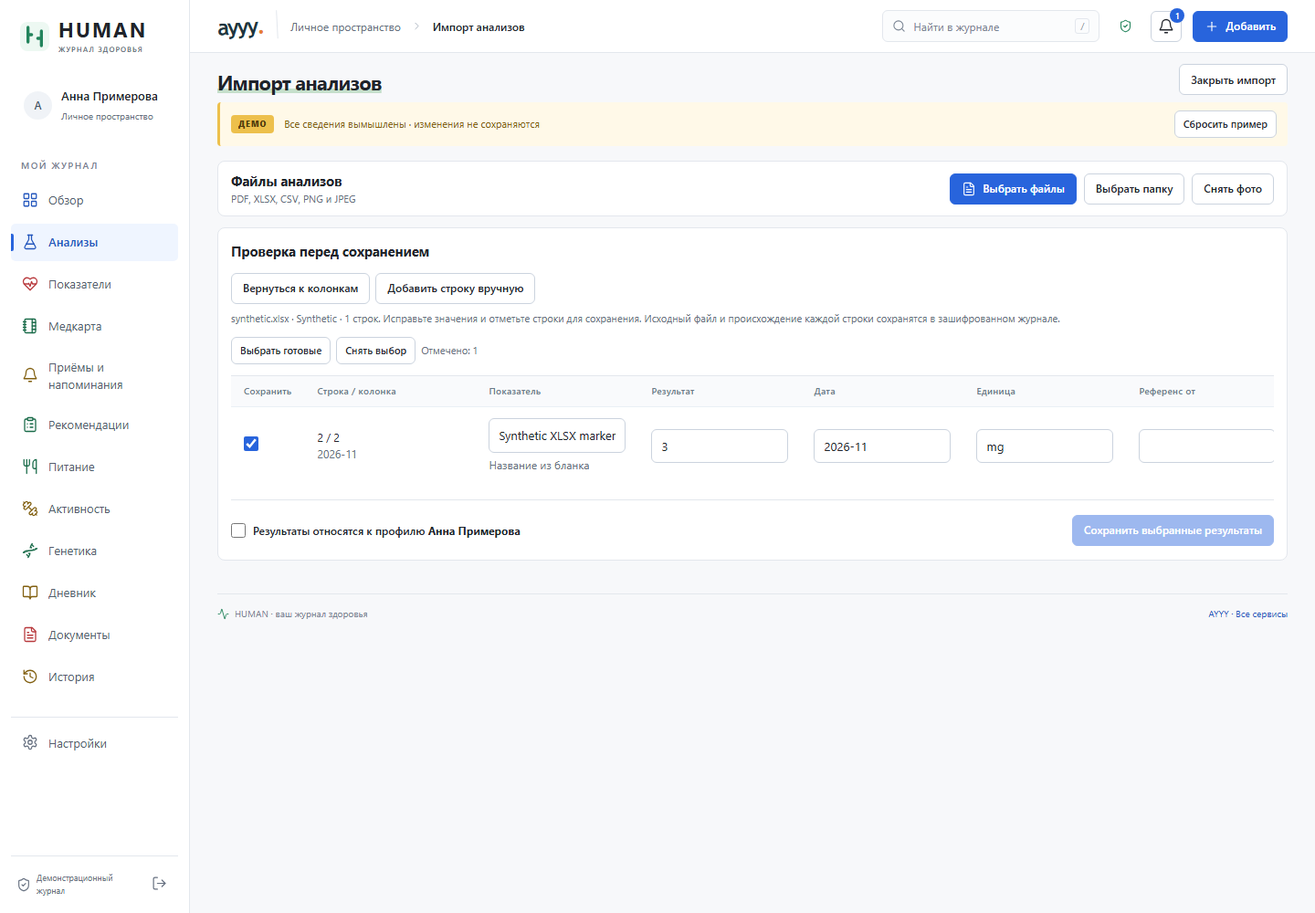
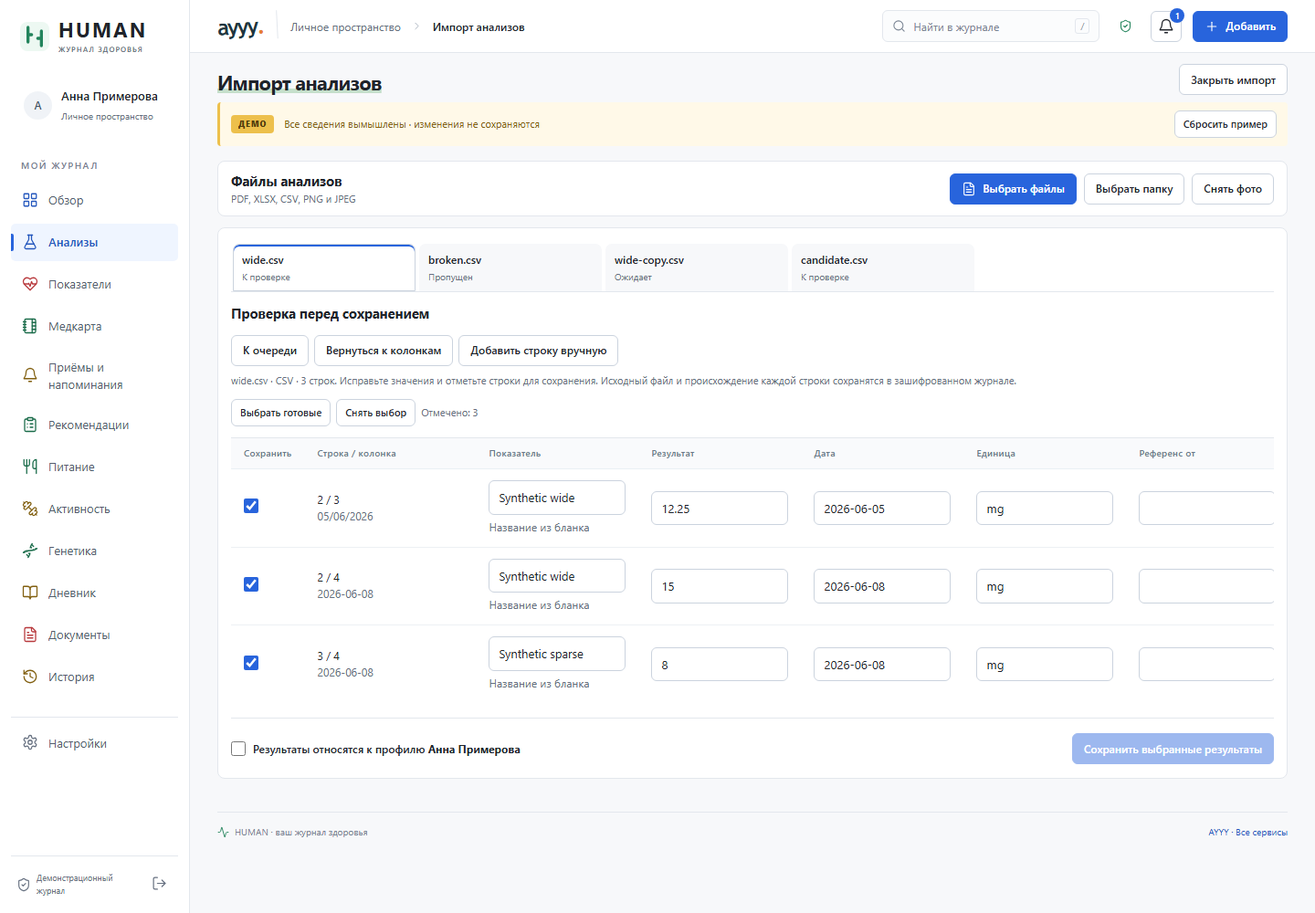
feat(health): switch directly between lab import files

diff --git a/health/import.js b/health/import.js
@@ -14,7 +14,10 @@
   let single=entries.length===1,currentEntry=null,loading=false,busy=false;
   let checkpoint=saved?.checkpoint??null,persisting=false,draftNotice=saved?'Черновик открыт с этого устройства.':'';
   const active=()=>!signal.aborted&&isCurrent()&&getDoc()?.id===identity;
-  signal.addEventListener('abort',()=>{entries.length=0;body.replaceChildren();},{once:true});
+  const tablist=V.h('div',{class:'health-import-file-tabs',role:'tablist','aria-label':'Файлы импорта',hidden:single});
+  const panel=V.h('div',{id:'health-import-file-panel'}),tabs=new Map();
+  body.replaceChildren(tablist,panel);
+  signal.addEventListener('abort',()=>{entries.length=0;tabs.clear();body.replaceChildren();},{once:true});
   function validateSize(batch){
    if(batch.length>100||batch.reduce((size,entry)=>size+(entry.original?.bytes.byteLength??entry.file?.size??0),0)>128*1024*1024)
     throw Error('Выберите до 100 файлов общим размером до 128 МиБ.');
@@ -22,15 +25,70 @@
   function frame(title){
    const heading=V.h('h2',{tabindex:-1},title);
    const content=V.h('div',{class:'health-import-panel'},V.h('p',{class:'health-note','data-import-skipped':true,hidden:true}));
-   body.replaceChildren(heading,content);
+   panel.replaceChildren(heading,content);
    updateSkipped();
-   if(body.isConnected)heading.focus({preventScroll:true});
+   syncTabs();focusPanel();
    return content;
   }
   function updateSkipped(){
-   const note=body.querySelector('[data-import-skipped]');
+   const note=panel.querySelector('[data-import-skipped]');
    note.hidden=!skippedFiles;
    note.textContent=skippedFiles?`Пропущено файлов неподдерживаемых форматов: ${skippedFiles}`:'';
+  }
+  function focusPanel(){if(panel.isConnected&&!tablist.contains(document.activeElement))panel.querySelector('h2')?.focus({preventScroll:true});}
+  function savedCounts(entry){return [entry.savedCount?`Сохранено результатов: ${entry.savedCount}`:'',entry.linked?`Связано источников: ${entry.linked}`:''].filter(Boolean).join(' · ');}
+  function fileStatus(entry){
+   if(entry.skipped)return ['skipped','Пропущен'];
+   if(entry.done!=null)return ['done','Сохранён'];
+   if(loading&&currentEntry===entry)return ['review','Чтение файла'];
+   if(entry.error)return ['error','Ошибка чтения'];
+   return entry.original?['review','К проверке']:['waiting','Ожидает'];
+  }
+  function syncTabs(){
+   tablist.hidden=single;
+   if(single)return;
+   const focused=tablist.contains(document.activeElement)?document.activeElement:null;
+   for(const entry of entries){
+    const name=entry.relativePath||entry.name;
+    if(!tabs.has(entry)){
+     const status=V.h('span',{id:'health-import-status-'+entry.id});
+     const button=V.h('button',{type:'button',role:'tab',id:'health-import-tab-'+entry.id,'aria-controls':panel.id,
+      'aria-label':name,'aria-describedby':status.id,title:name},V.h('strong',{},name),status);
+     button.addEventListener('click',()=>{button.focus({preventScroll:true});void switchFile(entry);});
+     tabs.set(entry,{button,status});tablist.append(button);
+    }
+    const {button,status}=tabs.get(entry),[tone,label]=fileStatus(entry);
+    button.dataset.status=tone;
+    button.setAttribute('aria-selected',String(entry===currentEntry));
+    button.tabIndex=(focused?button===focused:entry===(currentEntry??entries[0]))?0:-1;
+    status.textContent=label;
+   }
+   if(currentEntry){
+    panel.setAttribute('role','tabpanel');panel.setAttribute('aria-labelledby',tabs.get(currentEntry).button.id);
+   }else{panel.removeAttribute('role');panel.removeAttribute('aria-labelledby');}
+  }
+  tablist.addEventListener('keydown',event=>{
+   if(!['ArrowLeft','ArrowRight','Home','End'].includes(event.key))return;
+   const buttons=[...tablist.children],index=buttons.indexOf(event.target);
+   if(index<0)return;
+   event.preventDefault();
+   const next=event.key==='Home'?0:event.key==='End'?buttons.length-1:(index+buttons.length+(event.key==='ArrowRight'?1:-1))%buttons.length;
+   buttons[next].focus({preventScroll:true});buttons[next].scrollIntoView({block:'nearest',inline:'nearest'});syncTabs();
+  });
+  tablist.addEventListener('focusout',event=>{if(!tablist.contains(event.relatedTarget))queueMicrotask(()=>{if(active())syncTabs();});});
+  function queueLink(){return action('К очереди','import-queue',()=>void switchFile(null),{hidden:single});}
+  function parkEditor(){if(currentEntry?.capture)currentEntry.view=[...panel.childNodes];}
+  async function switchFile(entry){
+   if(!active()||entry===currentEntry)return;
+   if(loading||busy||persisting){notify?.('Дождитесь окончания обработки текущего файла.');return;}
+   const leaving=currentEntry;
+   parkEditor();
+   if(checkpoint&&leaving?.capture){
+    persisting=true;panel.inert=true;
+    try{await updateCheckpoint(leaving,draftMetadata(leaving));}finally{persisting=false;panel.inert=false;}
+    if(!active())return;
+   }
+   if(entry)await load(entry);else queue();
   }
   function action(label,key,run,attrs={}){
    const button=V.button(label,key,attrs);
@@ -74,7 +132,7 @@
     finally{for(const control of controls)control.disabled=false;persisting=false;save.disabled=discard.disabled=false;discard.hidden=!checkpoint;status.textContent=draftNotice;}
    },{class:'small',hidden:!pending().length});
    const discard=action('Удалить сохранённый черновик','discard-import-draft',async()=>{
-    if(!canSave()||!checkpoint||!confirm('Удалить сохранённый черновик с этого устройства? Правки в открытом окне останутся до его закрытия.'))return;
+    if(!canSave()||!checkpoint||!confirm('Удалить сохранённый черновик с этого устройства? Правки останутся доступны до закрытия импорта.'))return;
     persisting=true;save.disabled=discard.disabled=true;
     try{await persistence.discard(checkpoint,active);checkpoint=null;draftNotice='Сохранённый черновик удалён.';}
     catch(error){draftNotice=error.message;}
@@ -86,11 +144,11 @@
    currentEntry=null;
    const content=frame('Очередь импорта');
    draftActions(content);
-   content.append(V.h('p',{class:'health-note'},persistence?'Проверяйте и сохраняйте результаты по каждому файлу. После закрытия окна доступна сохранённая версия черновика.':'Проверяйте и сохраняйте результаты по каждому файлу. В демо правки черновика доступны в открытом окне.'),
+   content.append(V.h('p',{class:'health-note'},persistence?'После закрытия импорта можно открыть сохранённый черновик.':'В демо правки доступны, пока открыт импорт.'),
     V.h('ul',{class:'health-import-queue'},entries.map(entry=>{
-     const status=entry.done!=null?[entry.done?`Сохранено результатов: ${entry.done}`:'',entry.linked?`Связано источников: ${entry.linked}`:''].filter(Boolean).join(' · '):entry.skipped?'Пропущен':entry.error||(entry.original?'Готов к проверке':'Ожидает');
+     const status=entry.done!=null?savedCounts(entry):entry.skipped?'Пропущен':entry.error||fileStatus(entry)[1];
      return V.h('li',{},V.h('div',{},V.h('strong',{},entry.relativePath||entry.name),V.h('small',{},status)),entry.done!=null||entry.skipped?null:
-      V.h('div',{class:'health-import-queue-actions'},action(entry.original?'Продолжить':entry.error?'Повторить':'Открыть','import-open-file',()=>void load(entry),{class:'small'}),
+      V.h('div',{class:'health-import-queue-actions'},action(entry.original?'Продолжить':entry.error?'Повторить':'Открыть','import-open-file',()=>void switchFile(entry),{class:'small'}),
        action('Пропустить','import-skip-file',async()=>{
         persisting=true;
         try{await updateCheckpoint(entry);}finally{persisting=false;}
@@ -100,20 +158,40 @@
        },{class:'small'})));
     })));
   }
+  function readError(entry,error){
+   entry.error=error.message;
+   const content=frame('Не удалось открыть файл');
+   content.append(V.h('p',{class:'health-import-file'},entry.relativePath||entry.name),V.h('p',{class:'error',role:'alert'},entry.error),
+    action('Повторить чтение','import-retry-file',()=>void load(entry)),queueLink());
+  }
   async function load(entry){
    currentEntry=entry;
-   if(entry.view){body.replaceChildren(...entry.view);entry.view=null;updateSkipped();entry.refreshReview?.();body.querySelector('h2')?.focus({preventScroll:true});return;}
+   if(entry.done!=null||entry.skipped){
+    const content=frame(entry.skipped?'Файл пропущен':'Файл обработан');
+    const counts=savedCounts(entry);
+    content.append(V.h('p',{class:'health-import-file'},entry.relativePath||entry.name));
+    if(counts)content.append(V.h('p',{class:'health-note'},counts));
+    content.append(queueLink());
+    return;
+   }
+   if(entry.view){
+    panel.replaceChildren(...entry.view);entry.view=null;updateSkipped();entry.refreshReview?.();
+    const draftStatus=panel.querySelector('[data-import-draft-status]'),discard=panel.querySelector('[data-action=discard-import-draft]');
+    if(draftStatus)draftStatus.textContent=draftNotice;
+    if(discard)discard.hidden=!checkpoint;
+    syncTabs();focusPanel();return;
+   }
    if(entry.original){
     try{edit(entry,entry.original);}catch(error){
      if(single){close();throw error;}
-     entry.error=error.message;queue();
+     readError(entry,error);
     }
     return;
    }
+   loading=true;entry.error=null;
    const content=frame('Чтение файла'),status=V.h('p',{class:'health-note',role:'status'},'Чтение '+(entry.relativePath||entry.name));
    content.append(status);
    const reader=new AbortController(),abort=()=>reader.abort();
-   loading=true;
    signal.addEventListener('abort',abort,{once:true});
    if(!single)content.append(action('Отменить чтение','import-cancel-read',abort));
    try{
@@ -127,9 +205,8 @@
    }catch(error){
     if(!active())return;
     if(single){close();throw error;}
-    entry.error=reader.signal.aborted?null:error.message;
-    queue();
-   }finally{loading=false;signal.removeEventListener('abort',abort);}
+    if(reader.signal.aborted)queue();else readError(entry,error);
+   }finally{loading=false;signal.removeEventListener('abort',abort);if(active())syncTabs();}
   }
   function edit(entry,original){
   const restored=entry.editor??{};
@@ -181,12 +258,6 @@
    });
    return details;
   }
-  function navigation(content){
-   content.append(action('К очереди','import-queue',()=>{
-    if(busy)return;
-    entry.view=[...body.childNodes];queue();
-   },{hidden:single}));
-  }
   function readOptions(form){
    const input=new FormData(form);
    order=String(input.get('dateOrder')||'');
@@ -199,7 +270,7 @@
    manualMode=false;manualIds=[];
    const table=original.tables[sheet];
    const content=frame('Сопоставление колонок'),labels=table.rows[header-1]||[],width=Math.max(0,...table.rows.map(r=>r.length));
-   navigation(content);
+   content.append(queueLink());
    draftActions(content,()=>!busy);
    mapping??=Object.fromEntries(fields.map(([key])=>[key,labels.findIndex(x=>(aliases[key]||[]).includes(x.trim().toLocaleLowerCase('ru-RU')))]));
    layout??=T.suggestedLayout(labels,mapping);
@@ -253,7 +324,7 @@
    const doc=getDoc(),documentId=sourceDocument(doc)?.id;
    const content=frame('Проверка перед сохранением'),error=V.h('p',{class:'error',role:'alert',hidden:true});
    const result=V.h('p',{class:'health-note','data-import-result':true,role:'status',hidden:true});
-   navigation(content);
+   content.append(queueLink());
    draftActions(content,()=>!busy);
    const table=original.tables[sheet];
    let indexOfResults=T.duplicateIndex(doc.observations),coordinates=T.importedCoordinates(doc);
@@ -467,10 +538,8 @@
    if(loading||persisting||busy)throw Error('Дождитесь окончания обработки текущего файла.');
    const added=newEntries(list,sourceDocumentId);
    validateSize([...entries,...added]);
-   if(currentEntry){
-    body.querySelector('[data-action=import-queue]')?.removeAttribute('hidden');
-    currentEntry.view=[...body.childNodes];
-   }
+   panel.querySelector('[data-action=import-queue]')?.removeAttribute('hidden');
+   parkEditor();
    entries.push(...added);
    skippedFiles+=skipped;
    single=false;

diff --git a/health/human-adapter.css b/health/human-adapter.css
@@ -32,9 +32,18 @@
 .health-pdf-pages canvas{display:block;max-width:100%;height:auto;margin:12px auto;border:1px solid var(--border)}
 .health-import-tools{display:flex;justify-content:space-between;align-items:center;flex-wrap:wrap;gap:8px 16px;margin:0 0 12px;padding:10px 14px}
 .health-import-tools h2,.health-import-tools p{margin:0}
-.health-import-tools h2,.health-import-workspace>h2{font-size:15px}
+.health-import-tools h2,#health-import-file-panel>h2{font-size:15px}
 .health-import-workspace{padding:14px;min-width:0}
-.health-import-workspace>h2{margin:0 0 12px}
+#health-import-file-panel>h2{margin:0 0 12px}
+.health-import-file-tabs{display:flex;gap:4px;overflow-x:auto;margin:0 0 12px;padding:3px 2px 0;border-bottom:1px solid var(--border);scrollbar-width:thin}
+.health-import-file-tabs [role=tab]{display:grid;gap:3px;min-width:0;flex:1 0 130px;max-width:200px;padding:7px 9px;text-align:left;border:1px solid transparent;border-radius:7px 7px 0 0;background:var(--bg);color:var(--text)}
+.health-import-file-tabs [role=tab][aria-selected=true]{border-color:var(--border-strong);box-shadow:inset 0 2px var(--blue);background:var(--surface)}
+.health-import-file-tabs [role=tab]:focus-visible{outline-offset:-2px}
+.health-import-file-tabs strong,.health-import-file-tabs span{overflow:hidden;text-overflow:ellipsis;white-space:nowrap}
+.health-import-file-tabs strong{font-size:12px;font-weight:600}
+.health-import-file-tabs span{font-size:10px;color:var(--muted)}
+.health-import-file-tabs [data-status=done] span{color:var(--green-ink)}
+.health-import-file-tabs [data-status=error] span{color:var(--red-ink)}
 .health-import-workspace .health-form,.health-import-workspace .health-form>*{min-width:0}
 .health-import-workspace .health-table-wrap{width:100%;max-width:100%;max-height:50vh;overflow:auto}
 .health-import-workspace .health-form-row{grid-template-columns:repeat(2,minmax(0,1fr))}

diff --git a/health/index.html b/health/index.html
@@ -16,7 +16,7 @@
   <link rel="stylesheet" href="./human-care.css?v=ea139e5f6a30">
   <link rel="stylesheet" href="./human-diary.css?v=dae91ec77b80">
   <link rel="stylesheet" href="./human-recommendations.css?v=691d421d05aa">
-  <link rel="stylesheet" href="./human-adapter.css?v=0cdb1f2f89b9">
+  <link rel="stylesheet" href="./human-adapter.css?v=5b7711615998">
   <script src="../assets/portal-visits.js" defer></script>
 </head>
 <body>
@@ -60,7 +60,7 @@
   <script src="./documents.js?v=1e3cb3b5275d" defer></script>
   <script src="./import-table.js?v=e50f4b4ad3d7" defer></script>
   <script src="./import-draft.js?v=a2ccc2cabb2b" defer></script>
-  <script src="./import.js?v=3fac1228cfd2" defer></script>
+  <script src="./import.js?v=d6aad97aa4eb" defer></script>
   <script src="./app.js?v=c814c11600b6" defer></script>
 </body>
 </html>

diff --git a/src/health-route.js b/src/health-route.js
@@ -19,7 +19,7 @@
   }
   app.register('health',{
     title:'Здоровье',
-    render(){const href=source+'?v=human-9f7eb2cabdee'+(app.param==='demo'?'&demo=1':'');return '<iframe class="ayyy-health-frame" id="ayyy-health-frame" title="HUMAN · личный журнал здоровья" src="'+app.escape(href)+'" loading="eager"></iframe>';},
+    render(){const href=source+'?v=human-874905e6a0a3'+(app.param==='demo'?'&demo=1':'');return '<iframe class="ayyy-health-frame" id="ayyy-health-frame" title="HUMAN · личный журнал здоровья" src="'+app.escape(href)+'" loading="eager"></iframe>';},
     mount(){const frame=document.getElementById('ayyy-health-frame');return ()=>{if(frame)frame.src='about:blank';};}
   });
 })();

diff --git a/index.html b/index.html
@@ -69,7 +69,7 @@
   <script src="src/weather-route.js?v=8ad9e13c3eeb" defer></script>
   <script src="src/games-route.js?v=4cbc8df21424" defer></script>
   <script src="src/family-route.js?v=35310fa1165a" defer></script>
-  <script src="src/health-route.js?v=528757ef8ebc" defer></script>
+  <script src="src/health-route.js?v=5029c6fa62d8" defer></script>
   <script src="src/mpp-route.js?v=c21b85a811cf" defer></script>
   <script src="tools/loan-model.js?v=6a32f8e861b0" defer></script>
   <script src="tools/science-model.js?v=3bb101b6cefd" defer></script>

diff --git a/tests/health_documents_browser.py b/tests/health_documents_browser.py
@@ -75,7 +75,7 @@ with sync_playwright() as pw:
  upload('synthetic.xlsx',payload,'application/vnd.openxmlformats-officedocument.spreadsheetml.sheet',p.locator('#health-dialog [data-action=csv]'))
  check('manual form opens the full import page and releases the dialog',workspace.is_visible() and not p.locator('#health-dialog').is_visible())
  check('XLSX cached formula read without execution','Synthetic XLSX marker' in p.locator('[data-form=document-mapping]').inner_text())
- draft();check('review uses wide workspace',workspace.bounding_box()['width']>=1100);check('table scroll stays inside the page',workspace.evaluate('(e)=>e.scrollWidth<=e.clientWidth'));(ROOT/'docs/health-ui').mkdir(parents=True,exist_ok=True);capture(p,path=str(ROOT/'docs/health-ui/import-review-1440.png'),full_page=True)
+ draft();check('review uses wide workspace',workspace.bounding_box()['width']>=1100);check('table scroll stays inside the page',workspace.evaluate('(e)=>e.scrollWidth<=e.clientWidth'))
  first_review=p.locator('[data-form=document-review]')
  check('confirmation names the open profile and starts unchecked',first_review.get_by_label('Результаты относятся к профилю Анна Примерова').is_visible() and first_review.locator('[type=submit]').is_disabled())
  first_review.dispatch_event('submit')
@@ -183,21 +183,42 @@ with sync_playwright() as pw:
  chooser.value.set_files([
   {'name':'broken.csv','mimeType':'text/csv','buffer':b'name;value\n"unfinished'},
   {'name':'wide-copy.csv','mimeType':'text/csv','buffer':wide},
+  {'name':'candidate.csv','mimeType':'text/csv','buffer':matching+b'\n\n'},
  ])
  queue.wait_for()
- check('files can be added while a draft is open',queue.locator('li').count()==3)
+ check('files can be added while a draft is open',queue.locator('li').count()==4)
  p.set_viewport_size({'width':360,'height':900})
  check('batch queue fits phone',workspace.evaluate('(e)=>e.scrollWidth<=e.clientWidth'))
+ check('file tabs scroll inside the mobile workspace',workspace.get_by_role('tablist').evaluate('(e)=>e.scrollWidth>e.clientWidth'))
  p.set_viewport_size({'width':1440,'height':1000})
- open_entry('broken.csv');queue.wait_for()
+ def file_tab(name):return workspace.get_by_role('tab',name=name,exact=True)
+ open_entry('wide.csv')
+ file_tab('wide.csv').focus();file_tab('wide.csv').press('ArrowRight')
+ check('arrow keys focus the next file without changing the active draft',
+       file_tab('wide.csv').get_attribute('aria-selected')=='true' and file_tab('broken.csv').evaluate('(tab)=>tab===document.activeElement'))
+ file_tab('broken.csv').press('Enter')
+ workspace.get_by_role('alert').filter(has_text='Незакрытая кавычка CSV').wait_for()
+ check('an unreadable file shows its own error while other file tabs stay available',
+       file_tab('broken.csv').get_attribute('data-status')=='error' and file_tab('wide.csv').is_visible())
+ p.locator('[data-action=import-queue]').click();queue.wait_for()
  check('invalid file is isolated in the queue','Незакрытая кавычка CSV' in queue_entry('broken.csv').inner_text())
  queue_entry('broken.csv').locator('[data-action=import-skip-file]').click()
- open_entry('wide.csv')
+ file_tab('candidate.csv').click();draft()
+ review.locator('[name=selected]').check();review.locator('[name="0:decision"]').select_option('separate')
+ review.locator('[name=profileConfirmed]').check()
+ file_tab('wide.csv').click()
  check('batch retains unsaved edits',p.locator('[name="0:value"]').input_value()=='12.25')
- p.locator('[data-action=import-queue]').click();queue.wait_for();open_entry('wide.csv')
+ capture(p,path=str(ROOT/'docs/health-ui/import-review-1440.png'),full_page=True)
+ file_tab('candidate.csv').click()
+ check('direct switching retains selection, duplicate decision and profile confirmation',
+       review.locator('[name=selected]').is_checked() and review.locator('[name="0:decision"]').input_value()=='separate' and
+       review.locator('[name=profileConfirmed]').is_checked())
+ file_tab('wide.csv').click()
  submit_review();queue.wait_for()
  check('batch marks confirmed results per file','Сохранено результатов: 3' in queue_entry('wide.csv').inner_text())
- open_entry('wide-copy.csv');mapping.locator('[name=dateOrder]').select_option('dmy');draft()
+ file_tab('wide.csv').click()
+ check('a completed file tab shows a read-only result summary',workspace.get_by_role('tabpanel',name='wide.csv').get_by_text('Сохранено результатов: 3',exact=True).is_visible())
+ file_tab('wide-copy.csv').click();mapping.locator('[name=dateOrder]').select_option('dmy');draft()
  check('wide results are deduplicated by source cell',p.locator('[name=selected]:disabled').count()==3)
  close_import()
  encoded=p.evaluate('''()=>{

diff --git a/tests/health_import_draft_browser.py b/tests/health_import_draft_browser.py
@@ -116,10 +116,13 @@ def run(browser, directory):
         noNames:!Object.keys(draft).includes('entries')&&!Object.keys(draft.files[0]).includes('name'),salt:draft.salt};
     }''',OLD)
     assert proof['encrypted'] and proof['rejected'] and proof['noNames'] and proof['files']==2 and proof['count']==proof['attachments']==0,proof
+    review(p).locator('[name="0:value"]').fill('15.50')
+    p.get_by_role('tab',name=next_path,exact=True).click()
+    p.locator('[data-form=document-mapping]').wait_for()
     p.reload();unlock(p,OLD);lab(p);resume(p)
-    entry(p,first_path).locator('[data-action=import-open-file]').click()
-    assert review(p).locator('[name="0:value"]').input_value()=='15.25' and not review(p).locator('[name=selected]').is_checked()
-    print('PASS folder paths distinguish same-name files and survive encrypted draft reload',flush=True)
+    p.get_by_role('tab',name=first_path,exact=True).click()
+    assert review(p).locator('[name="0:value"]').input_value()=='15.50' and not review(p).locator('[name=selected]').is_checked()
+    print('PASS switching updates the encrypted checkpoint and retains relative paths and edits after reload',flush=True)
 
     peer=page();peer.goto(BASE+'health/');unlock(peer,OLD);lab(peer);resume(peer)
     entry(peer,first_path).locator('[data-action=import-open-file]').click()

diff --git a/docs/HEALTH_HUMAN_UI.md b/docs/HEALTH_HUMAN_UI.md
@@ -16,6 +16,8 @@
 
 Импорт открывается отдельной страницей внутри журнала. Начать можно из «Анализов», из формы нового анализа или из сохранённого документа. Выбор файлов, папки и камеры доступен и при открытом черновике. Новые файлы добавляются в ту же очередь. Если перейти в другой раздел, «Продолжить импорт» возвращает открытый черновик с правками до блокировки журнала. Чтобы продолжить после блокировки или перезагрузки, сохраните черновик на устройстве.
 
+Вкладки над формой переключают бланки и показывают статус каждого файла. Стрелки, Home и End перемещают фокус, Enter или пробел открывают файл. При переключении правки и решения по совпадениям сохраняются в текущем сеансе. Если этот файл уже был сохранён в зашифрованном черновике, при переключении его правки также записываются на устройство.
+
 «Выбрать готовые» отмечает валидные строки таблицы без известных совпадений в журнале. Ручные и распознанные строки отмечаются по одной после сверки с бланком. Подтверждение записывает готовые результаты. Строки с ошибками или неразрешёнными совпадениями остаются доступными для правки. После частичного подтверждения видно число сохранённых и оставшихся строк.
 
 «Импорт папки» добавляет поддерживаемые файлы из выбранной папки и её подпапок. В очереди видны относительные пути, чтобы различать одноимённые бланки. Путь сохраняется только в зашифрованном черновике. Перед записью результатов подтвердите их принадлежность открытому профилю для каждого файла. При повторном открытии сохранённого черновика подтвердите принадлежность заново.
@@ -84,7 +86,7 @@ python -X utf8 src/build.py dist/index.html
 
 Opt-in живого теста (только с разрешением владельца): `$env:HEALTH_GITHUB_TEST_REPO='i12309/TEST_TREE'; python -X utf8 tests/health_github_live.py`.
 
-Используются отдельные браузерные контексты и только синтетические данные. Локальные тесты блокируют внешние запросы; живой тест разрешает только API GitHub. Проверки охватывают точность, DST, неизвестные числа, сохранение/перезагрузку, профили, конкурентную запись, XSS в заметках, клавиатуру и ширины 360–1920 px. Базовая матрица Chromium/Firefox/WebKit — 270 проверок 14 экранов на 360/768/1440 px: навигация, подписи полей, клавиатура, отсутствие переполнений/ошибок/сети. Профиль/история/копии/смена фразы — по 49 сценариев в каждом движке. Рекомендации — по 42 сценария в каждом из трёх движков. Для всех сценарных наборов движок выбирает `$env:HEALTH_BROWSER='firefox'` или `'webkit'`, по умолчанию Chromium. Наполненные формы и графики проверены отдельными сценариями в каждом движке. runner запускает 13 наборов: общий интерфейс (116), каталог и импорт анализов, медкарта (35), эпизоды (27), измерения (49), приёмы/напоминания (36), питание/активность (45), генетика (42), документы (77), зашифрованные черновики импорта, хранилище (26), профиль/копии (49), рекомендации (42). `--engine firefox` / `--engine webkit` выбирает движок; повторяемый `--suite` ограничивает запуск нужными наборами. Синтетические снимки сохраняются только Chromium, чтобы параллельные прогоны не перезаписывали друг друга. Проверки удаления дожидаются подтверждённого изменения UI, а не предполагают синхронную запись IndexedDB.
+Используются отдельные браузерные контексты и только синтетические данные. Локальные тесты блокируют внешние запросы; живой тест разрешает только API GitHub. Проверки охватывают точность, DST, неизвестные числа, сохранение/перезагрузку, профили, конкурентную запись, XSS в заметках, клавиатуру и ширины 360–1920 px. Базовая матрица Chromium/Firefox/WebKit — 270 проверок 14 экранов на 360/768/1440 px: навигация, подписи полей, клавиатура, отсутствие переполнений/ошибок/сети. Профиль/история/копии/смена фразы — по 49 сценариев в каждом движке. Рекомендации — по 42 сценария в каждом из трёх движков. Для всех сценарных наборов движок выбирает `$env:HEALTH_BROWSER='firefox'` или `'webkit'`, по умолчанию Chromium. Наполненные формы и графики проверены отдельными сценариями в каждом движке. runner запускает 13 наборов: общий интерфейс (116), каталог и импорт анализов, медкарта (35), эпизоды (27), измерения (49), приёмы/напоминания (36), питание/активность (45), генетика (42), документы (82), зашифрованные черновики импорта, хранилище (26), профиль/копии (49), рекомендации (42). `--engine firefox` / `--engine webkit` выбирает движок; повторяемый `--suite` ограничивает запуск нужными наборами. Синтетические снимки сохраняются только Chromium, чтобы параллельные прогоны не перезаписывали друг друга. Проверки удаления дожидаются подтверждённого изменения UI, а не предполагают синхронную запись IndexedDB.
 
 Снимки: [измерения](health-ui/measurements-1440.png), [измерения на телефоне](health-ui/measurements-390.png), [рекомендации](health-ui/recommendations-1440.png), [рекомендации на телефоне](health-ui/recommendations-390.png), [профиль](health-ui/profile-1440.png), [профиль на телефоне](health-ui/profile-390.png), [история](health-ui/timeline-1440.png), [история на телефоне](health-ui/timeline-390.png), [обзор](health-ui/overview-1440.png), [анализы](health-ui/analyses-1440.png), [медкарта](health-ui/medical-rich-1440.png), [эпизод](health-ui/episode-1440.png), [напоминания](health-ui/care-1440.png), [питание](health-ui/nutrition-1440.png), [питание на телефоне](health-ui/nutrition-390.png), [активность](health-ui/activity-1440.png), [активность на телефоне](health-ui/activity-390.png), [генетика](health-ui/genetics-1440.png), [генетика на телефоне](health-ui/genetics-390.png), [подробности результата](health-ui/genetics-detail-390.png).
 

diff --git a/docs/HUMAN_BROWSER_PORT.md b/docs/HUMAN_BROWSER_PORT.md
@@ -49,6 +49,7 @@
 - [x] Разбор анализов из сохранённого документа и сведения о файле с SHA-256. Выбранный источник сохраняется в зашифрованном черновике, а повторное использование документа не создаёт новое вложение. Проверено в Chromium, Firefox и WebKit.
 - [x] Импорт папки с подпапками, различение одноимённых файлов по относительным путям и подтверждение принадлежности каждого бланка открытому профилю. Путь хранится в зашифрованном черновике. После повторного открытия черновика принадлежность подтверждается заново.
 - [x] Отдельная страница импорта в журнале с запуском из формы анализа и добавлением файлов в текущую очередь. Переходы по журналу сохраняют открытые правки до блокировки, после которой доступен явно сохранённый зашифрованный черновик.
+- [x] Вкладки файлов доступны на странице проверки и показывают состояние каждого бланка. Проверка других файлов продолжается после ошибки чтения. Переключение сохраняет правки, отметки строк и решения по совпадениям и обновляет ранее сохранённый зашифрованный черновик.
 - [ ] Внешние устройства/сервисы Samsung Health, Xiaomi и ИИ — только при отдельном согласии на конкретную внешнюю обработку.
 - [ ] Независимый аудит безопасности перед использованием для критичных медицинских данных.
 
